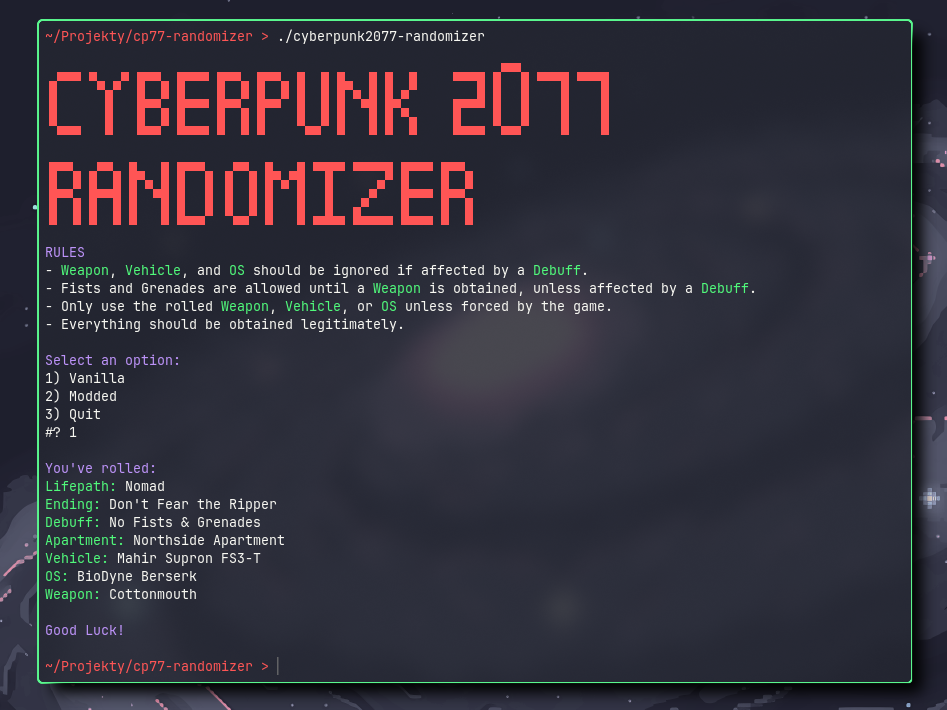
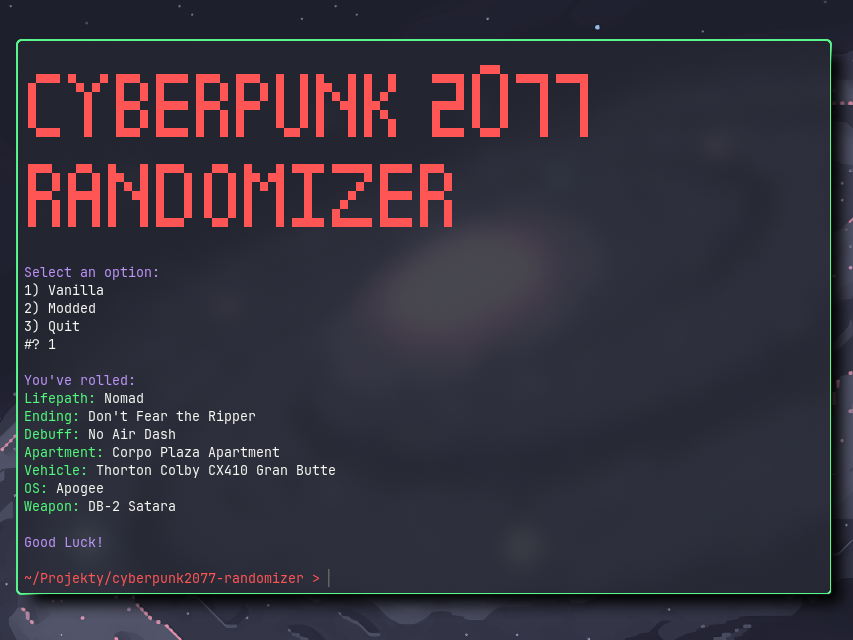
moved rules to readme

diff --git a/README.md b/README.md
@@ -22,11 +22,17 @@ This script randomizes available lifepaths, endings, apartments, vehicles, opera
 
 The script can be used for vanilla and modded playthroughs.
 
+# Rules
+- Weapon, Vehicle, and OS should be ignored if affected by a Debuff.
+- Fists and Grenades are allowed until a Weapon is obtained, unless affected by a Debuff.
+- Only use the rolled Weapon, Vehicle, or OS unless forced by the game.
+- Everything should be obtained legitimately.
+
 ## Debuffs.
 
 The following debuffs are available:
 - Metro Only: cannot use fast travel or vehicles. Walking, running, dashing/air dashing is permitted.
-- No Air Dash: cannot use dashing (in the Reflexes skill tree) and Reinforced Tendrons.
+- No Air Dash: cannot use dashing (in the Reflexes skill tree) and Reinforced Tendons.
 - No Car Stealing: it might take some time for you to obtain the rolled vehicle, so you might be tempted to steal cars. Rolling this option prohibits that.
 - No Cyberware: can't use any cyberware, unless forced by the game (pretty much only the Face cyberware). Cyberware installed by Viktor should be removed.
 - No Fists & Grenades: before you obtain the rolled weapon, you'll probably need to use fists and/or grenades. Rolling this option prohibits that.
@@ -45,4 +51,4 @@ Selecting "Modded" adds the following options:
 - [Oops_all_Smasher](https://www.nexusmods.com/cyberpunk2077/mods/14660)
 - Weapon Randomizer: [Weapon Shuffle (Randomizer)](https://www.nexusmods.com/cyberpunk2077/mods/15200) / [Random Weapon on Kill](https://www.nexusmods.com/cyberpunk2077/mods/16763) / [Weapon Randomizer](https://www.nexusmods.com/cyberpunk2077/mods/15255)
 
-Both Vanilla and Modded have "Homeless" as a debuff that can be rolled as Apartment. For modded playthroughs, you can use [Rent a Motel](https://www.nexusmods.com/cyberpunk2077/mods/21729); I also recommend installing [Eviction Notice](https://www.nexusmods.com/cyberpunk2077/mods/23187).
+Both Vanilla and Modded have "Homeless" as a debuff that can be rolled as Apartment. This prohibits using apartments (player or NPC) unless forced by the game (for example, the prologue cut scene). For modded playthroughs, you can use [Rent a Motel](https://www.nexusmods.com/cyberpunk2077/mods/21729); I also recommend installing [Eviction Notice](https://www.nexusmods.com/cyberpunk2077/mods/23187). If you have Dark Future installed, sleeping in cars is permitted.
